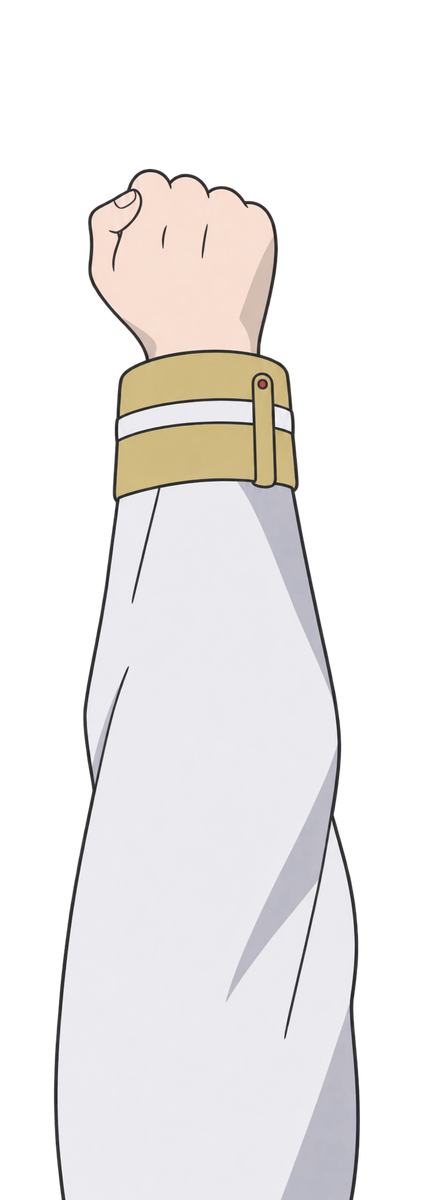
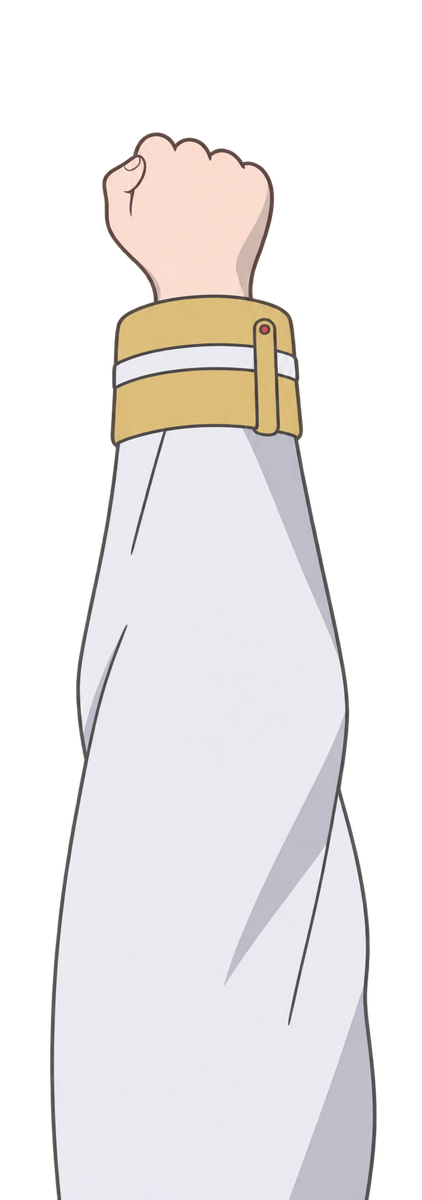
fix:重画更年轻圆润的芙莉莲手势

Changed region(s): [[0.0924, 0.0925, 0.8934, 1.0], [0.4621, 0.185, 0.4929, 0.2158]]

diff --git a/README.md b/README.md
@@ -7,7 +7,7 @@
 
 二代项目仍在开发中
 
-0.12.23：参考动画官方设定，制作芙莉莲的指向、石头、布、剪刀四张透明手部素材，采用白袖、金边与简洁动画画法，通过 BaseLib 原生角色接口替换多人抢遗物手势。待游戏实测。
+0.12.23：参考动画官方设定，制作芙莉莲的指向、石头、布、剪刀四张透明手部素材，采用白袖、金边与简洁动画画法，通过 BaseLib 原生角色接口替换多人抢遗物手势。按作者反馈重画第二版，缩小手掌、缩短手指，采用更柔和圆润的轮廓并减少指甲和关节线条。待游戏实测。
 
 0.12.22：按最新事件方案接入圣雪结晶之地、龙珠冒险、收债人与营地召唤神龙，加入仙豆、套娃、龟派气功、灌铅和七龙珠收集。许愿消耗七颗龙珠、每局一次，联机由集齐者选择并获得奖励，返回后保留各自剩余营地行动。同步中英文文本，旋转工艺改为普通版本，并修正辐光事件结尾。待游戏实测。
 
